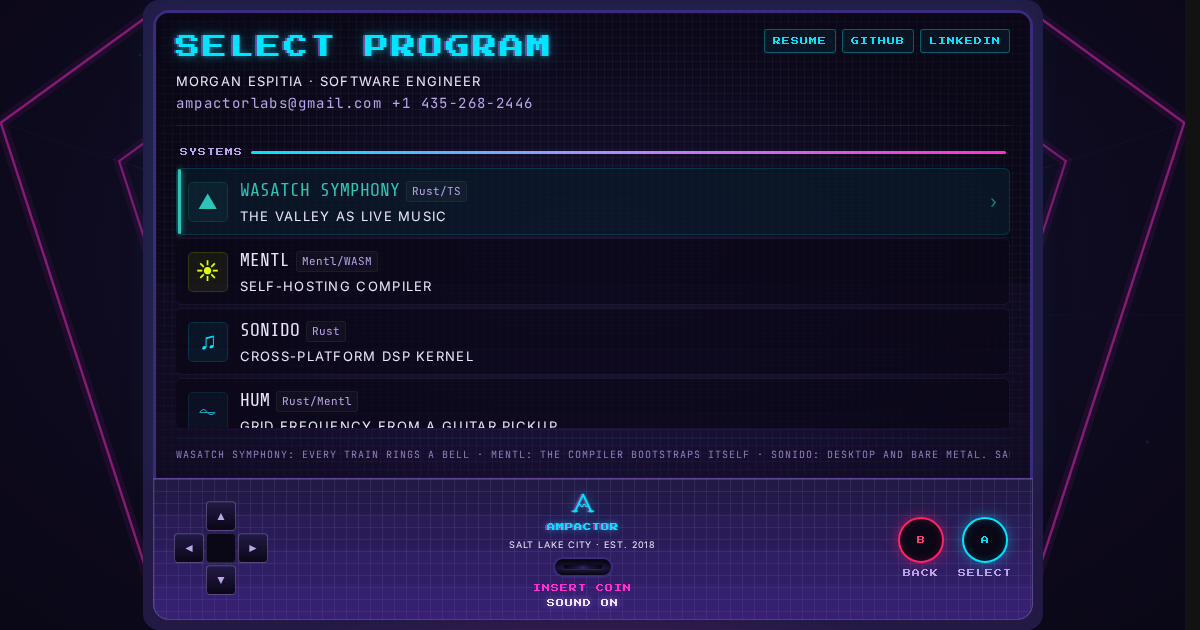
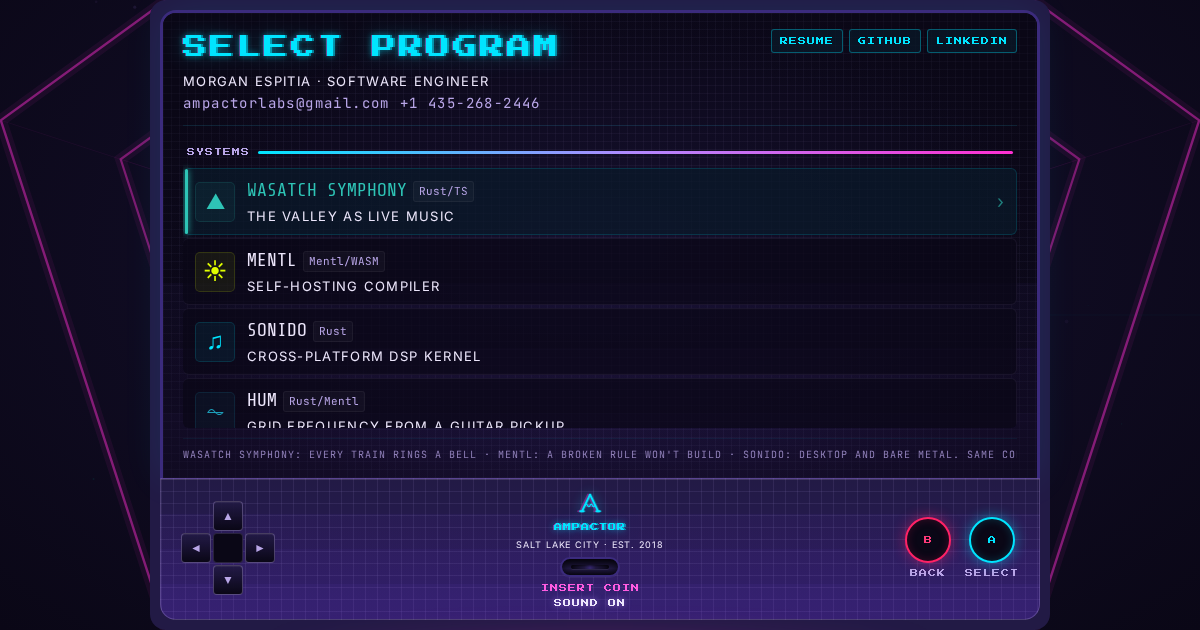
The list's focus ring shows for the keyboard only; the social card is current
The list takes focus as it loads, so :focus-visible alone ringed the lit
row for every visitor. Tab now marks the keyboard on <html> and a pointer
clears it; the ring needs both. og-home.png is rendered again: it still
showed MENTL's old marquee.

Claude-Session: https://claude.ai/code/session_01UFkKvYdY7mZZjCBgs8aXWQ

diff --git a/src/arcade/styles/crtStyles.js b/src/arcade/styles/crtStyles.js
@@ -164,8 +164,11 @@ export const crtStyles = `
   .coin-announce.tier-3{top:50%;transform:translate(-50%,-50%);font-size:16px;color:var(--cab-danger);text-align:center;animation:tier3Overlay 2.8s ease 0.3s both;background:${alpha(PALETTE.black, 0.9)};padding:20px 30px;border:1px solid var(--cab-danger)}
   .coin-announce.tier-3 span{display:block;margin-top:10px;font-size:8px;letter-spacing:var(--track-pixel);white-space:nowrap;color:var(--cab-text)}
   /* The list keeps its own outline off (the lit row is the selection), so a
-     keyboard needs a ring on the lit row to see that the list has focus. */
-  .project-list:focus-visible [role="option"][aria-selected="true"]{outline:2px solid var(--focus-ring, var(--cab-mark));outline-offset:-2px}
+     keyboard needs a ring on the lit row to see that the list has focus. The
+     list takes focus as it loads, which :focus-visible alone would ring for
+     every visitor; html[data-input="keyboard"] (main.tsx, set by Tab and
+     cleared by a pointer) keeps it for the keyboard. */
+  html[data-input="keyboard"] .project-list:focus-visible [role="option"][aria-selected="true"]{outline:2px solid var(--focus-ring, var(--cab-mark));outline-offset:-2px}
   /* Windows high contrast drops backgrounds and box-shadows: the lit row and
      the lit rail link draw a system-colour outline instead. */
   @media (forced-colors: active) {

diff --git a/src/main.tsx b/src/main.tsx
@@ -18,6 +18,23 @@ if (window.location.pathname === "/" && window.location.hash === "#arcade") {
 
 recoverStaleChunks();
 
+// Which hand is on the machine: Tab marks the keyboard, any pointer clears
+// it. The list's focus ring shows only for the keyboard (crtStyles.js).
+window.addEventListener(
+  "keydown",
+  (e) => {
+    if (e.key === "Tab") document.documentElement.dataset.input = "keyboard";
+  },
+  true,
+);
+window.addEventListener(
+  "pointerdown",
+  () => {
+    delete document.documentElement.dataset.input;
+  },
+  true,
+);
+
 const root = document.getElementById("root");
 if (!root) throw new Error("#root is missing from the document");
 
